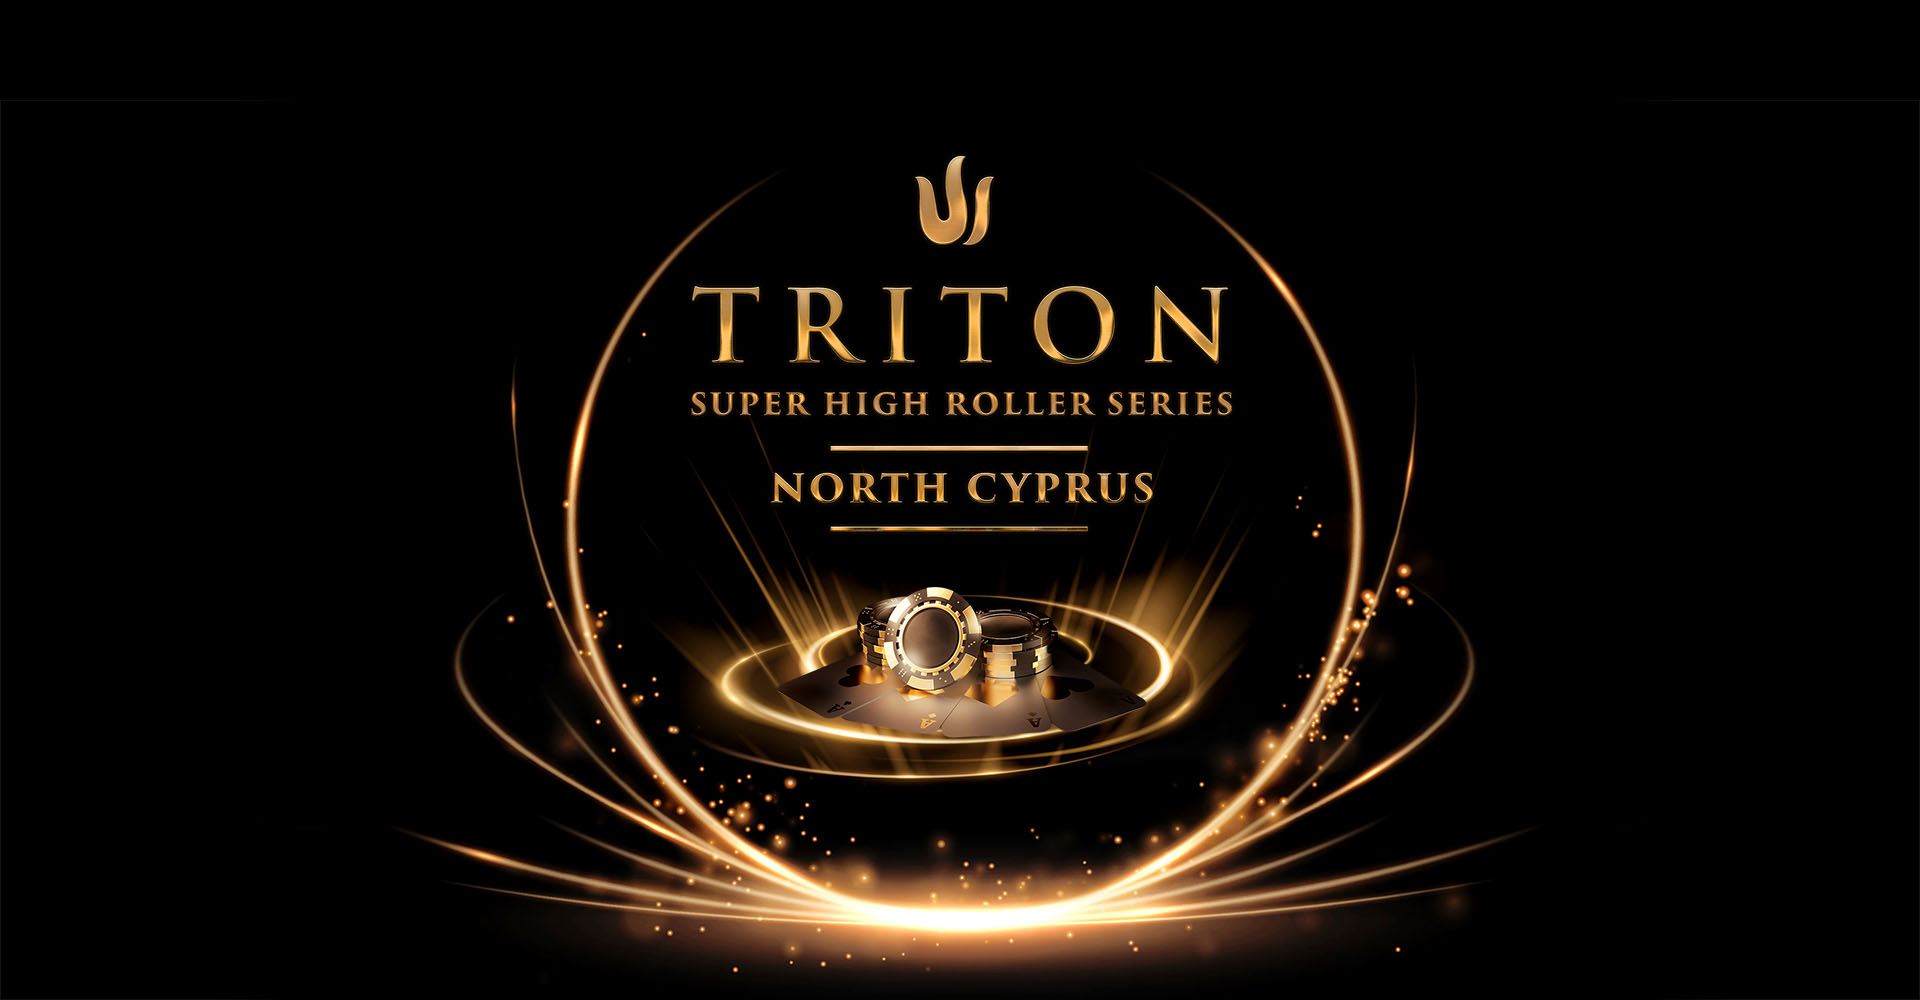
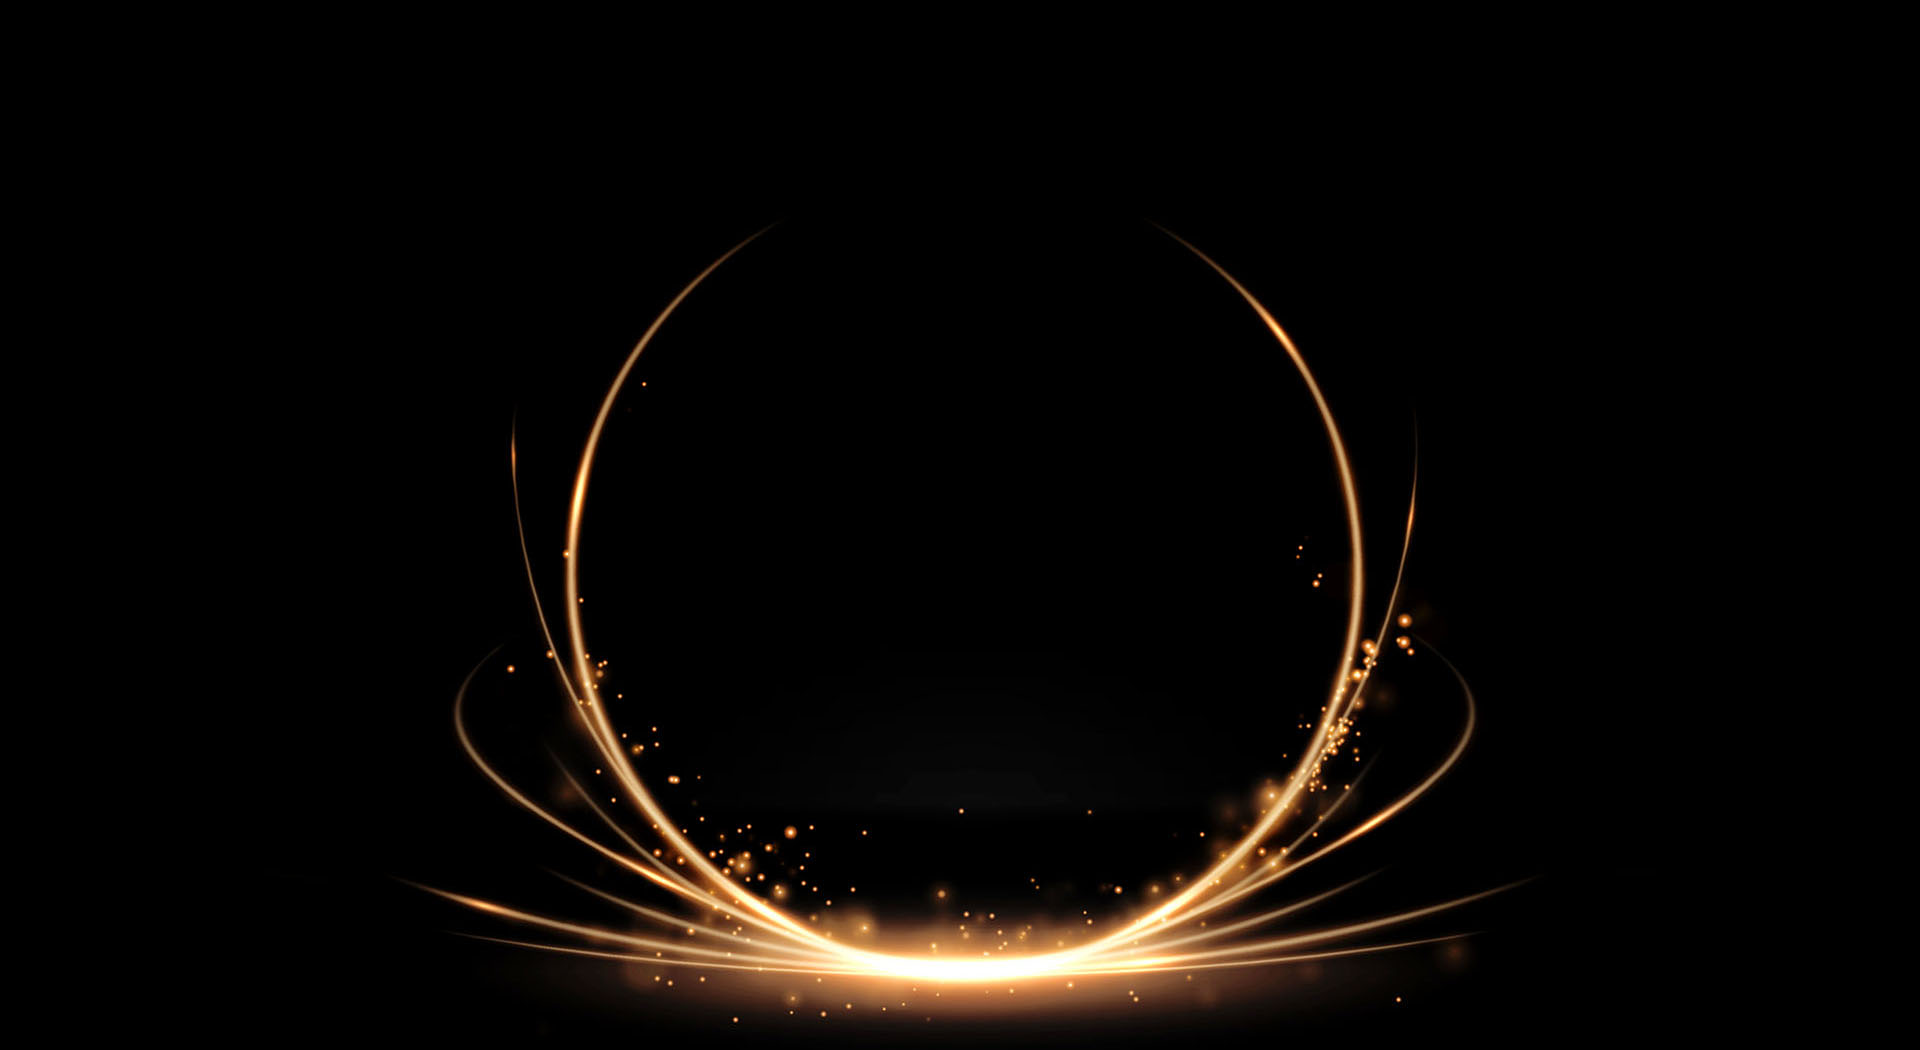
Changes

Changed region(s): [[0.2188, 0.217, 0.7812, 0.961], [0.4688, 0.155, 0.5312, 0.248], [0.2188, 0.651, 0.25, 0.713]]

diff --git a/src/containers/SaasClassic/Banner/index.js b/src/containers/SaasClassic/Banner/index.js
@@ -8,7 +8,7 @@ import Button from "common/components/Button";
 import NextImage from "common/components/NextImage";
 import Container from "common/components/UI/Container";
 import { BannerWrapper, VideoWrapper } from "./banner.style";
-import Cyprus from "common/assets/image/saasClassic/cyprus-logo.png";
+import Cyprus from "common/assets/image/saasClassic/logo2.png";
 
 // close button for modal
 const CloseModalButton = () => (
@@ -55,9 +55,14 @@ const BannerSection = ({ row, contentWrapper, title, imageWrapper }) => {
     <BannerWrapper id="banner_section">
       <Container>
         <Box {...row}>
-          {/* <Box {...contentWrapper}>
-            <NextImage className="cyprus-img" src={Cyprus} alt="cyprus image" />
-          </Box> */}
+          <Box {...contentWrapper} className="text-center">
+            <NextImage
+              className="cyprus-img"
+              src={Cyprus}
+              alt="cyprus image"
+              style={{ display: "inline" }}
+            />
+          </Box>
           <div className="video-section">
             <Fade bottom>
               <ReactPlayer
@@ -71,14 +76,7 @@ const BannerSection = ({ row, contentWrapper, title, imageWrapper }) => {
             </Fade>
           </div>
           <Box {...contentWrapper}>
-            <p
-              style={{
-                textAlign: "center",
-                color: "#fff",
-                fontSize: "18px",
-                lineHeight: "30px",
-              }}
-            >
+            <p className="text-st">
               At the Merit Royal Diamond Hotel <br />
               WEDNESDAY 10th to THURSDAY 25th MAY
             </p>
@@ -111,7 +109,7 @@ BannerSection.defaultProps = {
   },
   contentWrapper: {
     width: ["100%", "100%", "80%", "55%", "50%"],
-    mb: "40px",
+    mb: "20px",
   },
   title: {
     fontSize: ["24px", "32px", "40px", "42px", "46px"],

diff --git a/src/containers/SaasClassic/Banner/banner.style.js b/src/containers/SaasClassic/Banner/banner.style.js
@@ -15,12 +15,16 @@ const Bubble = keyframes`
 `;
 
 export const BannerWrapper = styled.section`
-  padding: 150px 0 50px 0;
+  padding: 100px 0 50px 0;
   background-image: url(${BgIMage?.src});
 
   background-size: cover;
   background-position: top center;
-  // height: 99vh;
+  background-size: contain;
+  background-position: top center;
+  overflow: hidden;
+  background-repeat: no-repeat;
+  background-color: #000;
   overflow: hidden;
   .video-section {
     width: 100%;
@@ -41,6 +45,13 @@ export const BannerWrapper = styled.section`
       width: 400px !important;
       height: 225px !important;
     }
+  }
+  .text-st {
+    text-align: center;
+    font-size: 18px;
+    line-height: 30px;
+    color: #fff;
+    padding-top: 60px;
   }
 
   img {

diff --git a/src/pages/index.js b/src/pages/index.js
@@ -24,7 +24,7 @@ const SaasClassic = () => {
     <ThemeProvider theme={saasClassicTheme}>
       <Fragment>
         <Head>
-          <title>Triton Poker Series | Cyprus 2022 </title>
+          <title>Triton Poker Series | Cyprus 2023 </title>
           <meta
             name="Description"
             content="Triton Super High Roller Series 2022"
